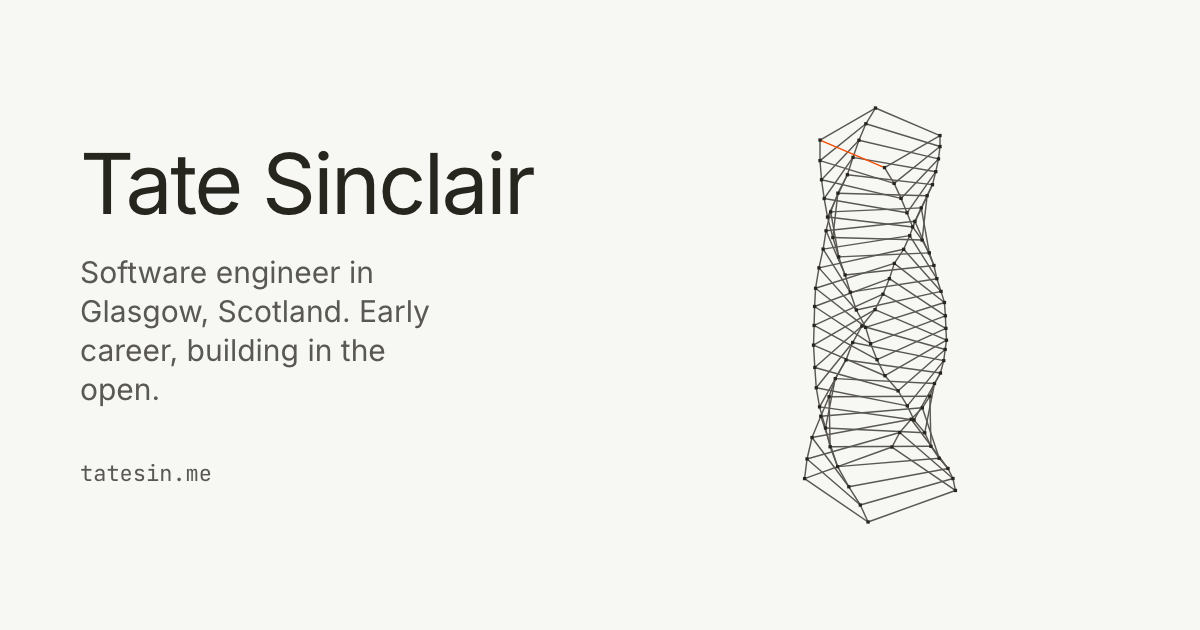
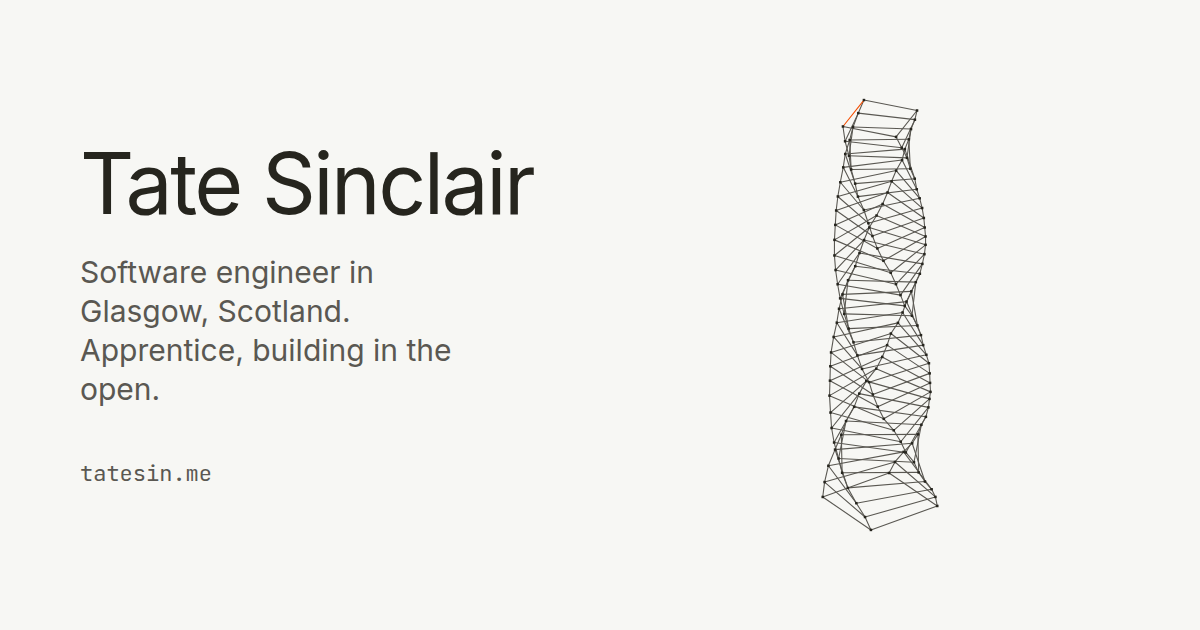
Call the stage Apprentice, not Early career
The hero, the meta description and the about prose already said
apprentice; the Stage fact and the OG card still said "Early career",
so the site contradicted itself. Both now read Apprentice, and the OG
image is regenerated from the changed template.

The brief's own descriptor moves with it. Left alone: the two places
CLAUDE.md talks about early-career portfolios and engineers as a
category rather than as Tate's label, and the v1/v2 design plans,
which are records of superseded designs.

Claude-Session: https://claude.ai/code/session_01N85ZQ8CHxg9tBQtrfHfCCN

diff --git a/CLAUDE.md b/CLAUDE.md
@@ -106,7 +106,7 @@ This file is the brief and the working agreement for this repo. Read it fully be
 
 ## 1. Who this is for
 
-**Tate Sinclair — software engineer.** Early career. Based in Scotland.
+**Tate Sinclair — software engineer.** Apprentice. Based in Scotland.
 
 The honest situation, which shapes everything below: Tate does not yet have a body of shipped projects. The site is being built *before* the work, not after it. Do not paper over this. A portfolio that pretends to a career that hasn't happened yet is transparent to anyone hiring, and it's the single most common failure mode of an early-career portfolio.
 
@@ -306,7 +306,7 @@ Case study pages: problem, approach, what was hard, what he'd do differently. Th
 
 Write it in Tate's voice: plain, direct, first person, sentence case. No "passionate about leveraging cutting-edge technologies". No "I turn coffee into code". No third-person self-description.
 
-Being early-career is a fact, not an apology. Write it plainly and move on. Confidence about direction reads better than either false seniority or self-deprecation.
+Being an apprentice is a fact, not an apology. Write it plainly and move on. Confidence about direction reads better than either false seniority or self-deprecation.
 
 Every button says what happens. Errors say what went wrong and how to fix it. The 404 page should be in the site's voice and give the person somewhere to go.
 
